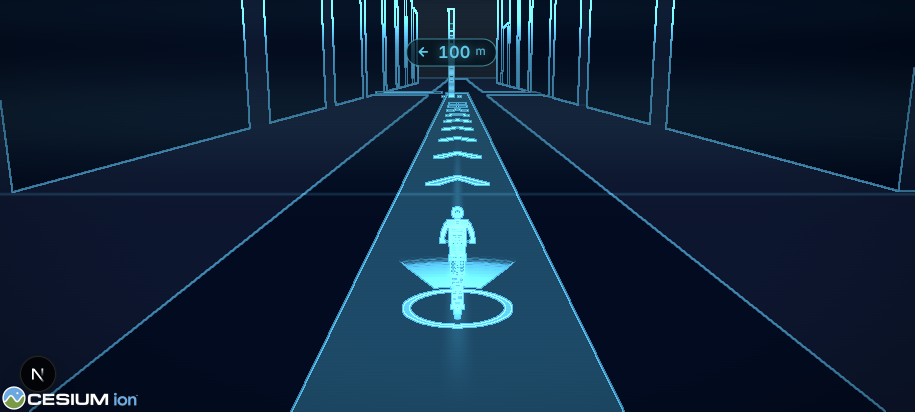
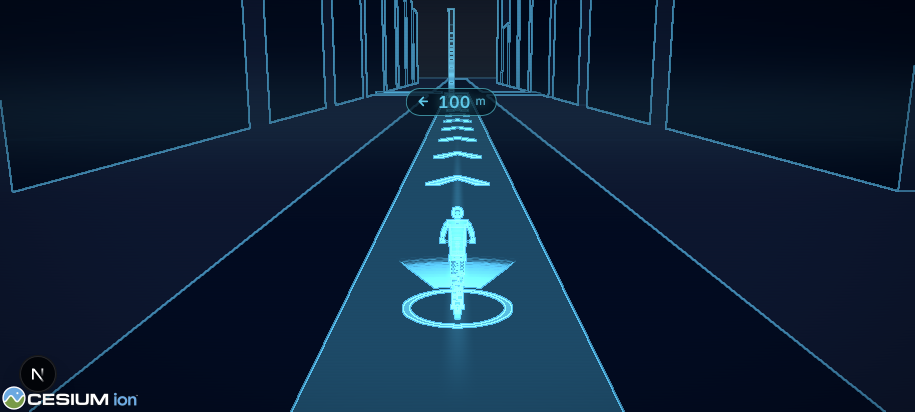
fix(map): count the beacon from the ride session distance and keep its label below the top HUD
The beacon and the HUD now read the same distance along the route and
share the passed tolerance. The label no longer rises above 28 percent
of the scene. Turn guidance tests assert the label never rises and the
exact end of route result. Docs and changelog updated.

diff --git a/apps/web/src/map/scene-controller.test.ts b/apps/web/src/map/scene-controller.test.ts
@@ -13,7 +13,13 @@ import type {
   SceneLighting,
 } from "@waylit/map-provider";
 import { DEFAULT_TUNING, selectProvider } from "@waylit/map-provider";
-import { DEMO_ROUTE } from "@waylit/core";
+import {
+  DEMO_ROUTE,
+  computeProgress,
+  createProgressModel,
+  formatDistance,
+  nextTurn,
+} from "@waylit/core";
 import { MapSceneController, NOTES, startFixOf, type SceneState } from "./scene-controller";
 
 class FakeProvider implements MapProvider {
@@ -323,6 +329,34 @@ describe("MapSceneController guidance", () => {
     expect(frame.beacon?.direction).toBe("left");
     expect(frame.beacon?.label).toMatch(/^\d+ m$/);
     expect(frame.beacon!.distanceMetres).toBeLessThan(80);
+  });
+
+  it("counts the beacon from the ride session's distance, the same number the HUD uses", async () => {
+    const { provider, controller } = await started();
+    const model = createProgressModel(DEMO_ROUTE);
+    const first = nextTurn(model, 0)!;
+    const along = first.atMetres - 30;
+    // The camera is still at the start (a smoothed pose can trail the session by a few metres).
+    controller.resetCamera({ position: DEMO_ROUTE.path[0]!, headingDegrees: 90 });
+    controller.setProgress(along);
+    provider.frame(16);
+    const beacon = provider.guidance.at(-1)!.beacon!;
+    const hud = computeProgress(model, { distanceAlongMetres: along, nowMs: 0 });
+    const shown = formatDistance(hud.distanceToNextMetres!);
+    expect(hud.nextInstruction).toBe(first.instruction);
+    expect(beacon.label).toBe(`${shown.value} ${shown.unit}`);
+    expect(beacon.label).toBe("30 m");
+  });
+
+  it("forgets the session distance on a reset, then counts from the rider's position", async () => {
+    const { provider, controller } = await started();
+    const model = createProgressModel(DEMO_ROUTE);
+    const first = nextTurn(model, 0)!;
+    controller.setProgress(first.atMetres - 30);
+    controller.resetCamera({ position: DEMO_ROUTE.path[0]!, headingDegrees: 90 });
+    provider.frame(16);
+    // The reset forgot the session distance, so the rider at the start is far from any turn.
+    expect(provider.guidance.at(-1)!.beacon).toBeUndefined();
   });
 
   it("hands the same route to the fallback after Cesium fails and is replaced", async () => {

diff --git a/apps/web/src/map/scene-controller.ts b/apps/web/src/map/scene-controller.ts
@@ -76,6 +76,7 @@ export class MapSceneController {
   private mounting: MapProvider | undefined;
   private activity: ProviderActivity = "idle";
   private lighting: SceneLighting | undefined;
+  private sessionAlong: number | undefined;
   private state: SceneState;
 
   constructor(options: SceneControllerOptions) {
@@ -119,10 +120,20 @@ export class MapSceneController {
     this.camera.setFix(fix, this.options.now());
   }
 
+  /**
+   * The ride session's distance along the route, in metres: the same number the HUD counts the
+   * next turn from. The turn beacon uses it so its countdown and the HUD's never disagree.
+   * Pass undefined when there is no ride, and the beacon falls back to the rider's position.
+   */
+  setProgress(alongMetres: number | undefined): void {
+    this.sessionAlong = alongMetres;
+  }
+
   /** Put the camera back at the start, with no gliding. For a new trip. */
   resetCamera(fix: RiderFix): void {
     this.camera.snapTo(fix, this.options.now());
     this.guide.reset();
+    this.sessionAlong = undefined;
   }
 
   setLighting(lighting: SceneLighting): void {
@@ -186,7 +197,9 @@ export class MapSceneController {
       provider.setCamera(pose);
       // The rider and the guidance follow the same smoothed pose as the camera, so the rider
       // stays put in the lower middle of the screen and the chevrons ahead stay on the road.
-      provider.setGuidance(this.guide.frame(pose.rider, pose.headingDegrees, nowMs));
+      provider.setGuidance(
+        this.guide.frame(pose.rider, pose.headingDegrees, nowMs, this.sessionAlong),
+      );
     });
     this.removeStatus = provider.onStatus((status) => {
       // A failure while the provider is still starting is reported by mount() itself.

diff --git a/apps/web/src/map/beacon-label.test.ts b/apps/web/src/map/beacon-label.test.ts
@@ -1,5 +1,5 @@
 import { describe, expect, it } from "vitest";
-import { clampLabel } from "./beacon-label";
+import { LABEL_BOUNDS, clampLabel } from "./beacon-label";
 
 describe("clampLabel", () => {
   it("leaves a point in the readable middle alone", () => {
@@ -9,10 +9,22 @@ describe("clampLabel", () => {
   it("keeps the label off the edges and out of the dock and the top strip", () => {
     const top = clampLabel({ x: -50, y: -20 }, 800, 400)!;
     expect(top.x).toBeCloseTo(80, 6);
-    expect(top.y).toBeCloseTo(64, 6);
+    expect(top.y).toBeCloseTo(112, 6);
     const bottom = clampLabel({ x: 5000, y: 900 }, 800, 400)!;
     expect(bottom.x).toBeCloseTo(720, 6);
     expect(bottom.y).toBeCloseTo(248, 6);
+  });
+
+  it("never lets the label rise above 28 percent of the scene, so it stays below the top HUD", () => {
+    expect(LABEL_BOUNDS.minY).toBe(0.28);
+    for (const height of [360, 412, 720, 1080]) {
+      const lifted = clampLabel({ x: 300, y: height * 0.2 }, 800, height)!;
+      expect(lifted.y).toBeCloseTo(height * 0.28, 6);
+      expect(clampLabel({ x: 300, y: height * 0.28 }, 800, height)!.y).toBeCloseTo(
+        height * 0.28,
+        6,
+      );
+    }
   });
 
   it("drops a label with no usable position or size", () => {

diff --git a/apps/web/src/map/MapScene.tsx b/apps/web/src/map/MapScene.tsx
@@ -21,6 +21,11 @@ interface MapSceneProps {
   /** The simulated rider, once the trip has started. */
   readonly position: LatLng | undefined;
   readonly heading: number | undefined;
+  /**
+   * The ride session's distance along the route in metres, the number the HUD counts the next
+   * turn from. The turn beacon uses it so the beacon and the HUD show the same distance.
+   */
+  readonly alongMetres?: number | undefined;
   readonly daylight: DaylightState;
   /** Show the frame rate overlay and the provider details. Development and `?dev=1`. */
   readonly devOverlay: boolean;
@@ -52,6 +57,7 @@ export function MapScene({
   phase,
   position,
   heading,
+  alongMetres,
   daylight,
   devOverlay,
   statsSlot = null,
@@ -114,6 +120,11 @@ export function MapScene({
     if (position === undefined) return;
     controllerRef.current?.setRider({ position, headingDegrees: heading });
   }, [position, heading]);
+
+  // The session's distance along the route, for the turn beacon's countdown.
+  useEffect(() => {
+    controllerRef.current?.setProgress(alongMetres);
+  }, [alongMetres]);
 
   useEffect(() => {
     controllerRef.current?.setActivity(ACTIVITY[phase]);

diff --git a/apps/web/src/map/beacon-label.ts b/apps/web/src/map/beacon-label.ts
@@ -21,6 +21,12 @@ export interface ScreenPoint {
   readonly y: number;
 }
 
+/**
+ * Where the label may sit, as a share of the scene's width and height. The top limit keeps it
+ * from sliding under the top HUD (the turn arrow and distance, the clock and the minimap).
+ */
+export const LABEL_BOUNDS = { minX: 0.1, maxX: 0.9, minY: 0.28, maxY: 0.62 } as const;
+
 /** Keeps the label where it can be read: off the very top and bottom, and inside the sides. */
 export function clampLabel(
   point: ScreenPoint,
@@ -31,8 +37,8 @@ export function clampLabel(
     return undefined;
   }
   return {
-    x: Math.min(width * 0.9, Math.max(width * 0.1, point.x)),
-    y: Math.min(height * 0.62, Math.max(height * 0.16, point.y)),
+    x: Math.min(width * LABEL_BOUNDS.maxX, Math.max(width * LABEL_BOUNDS.minX, point.x)),
+    y: Math.min(height * LABEL_BOUNDS.maxY, Math.max(height * LABEL_BOUNDS.minY, point.y)),
   };
 }
 

diff --git a/apps/web/src/app/ride/page.tsx b/apps/web/src/app/ride/page.tsx
@@ -166,6 +166,7 @@ export default function RidePage() {
           phase={snapshot.phase}
           position={riding ? snapshot.position : undefined}
           heading={riding ? snapshot.heading : undefined}
+          alongMetres={riding ? snapshot.progress.distanceAlongMetres : undefined}
           daylight={daylight}
           devOverlay={devControls}
           statsSlot={statsSlot}

diff --git a/CHANGELOG.md b/CHANGELOG.md
@@ -11,11 +11,7 @@ All notable changes to this project are recorded here. The format follows [Keep 
 - Google mode: the corridor is a `ClassificationPrimitive` (GPU stencil, `CESIUM_3D_TILE` only) at the documented ground height constant, and the chevrons, beacon, rider and heading marker are flat translucent primitives with original shaders. No height, depth, pick or terrain call touches the tiles, and a test guards the Google mode files for those APIs. The hologram screen effect (scan band, and a screen space ground grid at `high`) extends the existing fx post process and stays off by default for Google tiles.
 - MapLibre fallback: the full look with no Google restrictions. Dark glass buildings with floor lines, roof edges and glowing outlines (extruded style layers in non-overlapping height bands), ribbon and glowing rails style layers, a world fixed ground grid, and one custom WebGL layer for the rider, chevrons, beacon and heading marker with the same original GLSL.
 - Dev page `/dev/holo-preview?dev=1&engine=cesium|maplibre&time=...&fx=...&along=...` (procedural scene, no Google tiles) and original screenshots `docs/images/holo-preview-*.png`.
-- Tests for turn guidance, the route guide, meshes, matrices, the ground grid, the shader sources, the building style, the label clamp, the fx scan band and the Terms guard (709 tests in total, up from 606 at the start of the task).
-
-### Changed
-
-- The fx post process gained a scan band (both variants) and a ground grid (`high`), driven by new uniforms `u_holo` and `u_motion` and new `FxParameters` fields `scanHalfWidth`, `scanStrength` and `gridStrength`. The scene controller now passes the route to the provider and calls `setGuidance` each frame.
+- Tests for turn guidance, the route guide, meshes, matrices, the ground grid, the shader sources, the building style, the label clamp, the fx scan band and the Terms guard (742 tests in total, up from 610).
 
 - Day and night follow the device clock while the position is simulated: the demo route is in Berlin, so the real Berlin sun could be bright day under a 22:04 HUD clock. The scene now uses the sun at the route when its local solar time equals the device's time of day (`sunMoment` in `@waylit/core`, tested for night, noon, sunset, time zone independence, the date line and polar cases). A switch on the start screen (and `?sun=clock` or `?sun=real`) picks "Light follows my clock" (default) or "Real sun at the route". The dev time override still wins and real GPS needs one constant changed. The HUD clock still shows the device time.
 - Top scrim and readable HUD text: a flat linear gradient behind the top of the screen, stronger by day (driven by the daylight factor), a small dark text shadow on text over the scene, brighter secondary text colours and new `scrim` and `shadow` design tokens. A test checks WCAG contrast (4.5:1 small text, 3:1 large) against bright sky, sunlit ground and night backgrounds.
@@ -54,6 +50,8 @@ All notable changes to this project are recorded here. The format follows [Keep 
 
 ### Changed
 
+- Hologram review fixes (task 9): the Terms guard test now covers `tile-shader.ts` and the tile event, any `.pick(`, `czm_globeDepthTexture`, `czm_readDepth` and `tileVisible`, and every `ClassificationType` must be `CESIUM_3D_TILE`. A new `LoadGovernor` steps the hologram down on a slow phone whatever the fx level is (fewer chevrons, then no rails volume), after the screen effect when that is on, and `FxGovernor` and `HoloGovernor` now share a `StepDownGovernor` base. `cesium-holo.ts` reuses its scratch objects each frame. The turn beacon counts from the ride session's distance along the route, the same input as the HUD, and the HUD and beacon agree on the departure (HUD shows it at the very start, the beacon never does). The beacon label no longer rises above 28 percent of the scene. Turn guidance tests assert the label sequence never rises and the exact end of route result.
+- The fx post process gained a scan band (both variants) and a ground grid (`high`), driven by new uniforms `u_holo` and `u_motion` and new `FxParameters` fields `scanHalfWidth`, `scanStrength` and `gridStrength`. The scene controller now passes the route to the provider and calls `setGuidance` each frame.
 - The first run safety notice sits above the credits strip and the 3D scene starts only after it is acknowledged, so the Google logo and credits are never covered.
 - The ground height of the demo route is 85 m above the ellipsoid (about 45 m above sea level at Tempelhof plus a geoid undulation of about 40 m at Berlin), down from 95 m and then 90 m after the task 8 reviews. A documented estimate and still a constant, never read or derived from tiles.
 - In Google mode the tile night tint and the warm street light lift are part of the visual effect setting: with the effect off (the default, or `?fx=off`) no custom tile shader is created, so the Google tiles are drawn as supplied and only the sky follows the daylight state. `?fx=low` or `?fx=high` bring the night tint back. The MapLibre fallback is unchanged.

diff --git a/docs/ARCHITECTURE.md b/docs/ARCHITECTURE.md
@@ -192,7 +192,11 @@ apps/web/src/map/beacon-label.ts            DOM label for the turn beacon, clamp
 - **Hologram screen effect on Google tiles.** The scan band and the screen space ground grid are part of the existing fx post process, so they sit behind the same switch: `GOOGLE_FX_ON_BY_DEFAULT = false`, `?fx=off|low|high`, and the `FxGovernor` stepping down below 30 fps. They are per fragment colour changes from screen coordinates and read no depth. The grid is a perspective projection of the screen position onto a plane, not a read of the tiles.
 - **Terms 3.2.3 grey area.** Terms 3.2.3(c) forbids creating content based on Google Maps Content. Drawing a corridor on the tiles with a stencil classification, and tinting pixels on screen, create no copy and record nothing, but the terms do not say that clearly. The corridor is the approved Amendment 3 approach. The screen effect is the same grey area as the colour grade above, so it ships off for Google tiles until the maintainer accepts the risk.
 - **MapLibre fallback (`maplibre-holo.ts`, `holo-style.ts`).** Not Google content, so the full look runs by default. Buildings are extruded in non-overlapping height bands (glass, floor line, glass, floor line, glass, roof edge) so extrusions never z-fight, plus an outline glow at `high`. Ribbon, rails and the grid are style layers. The rider, chevrons, beacon and heading marker draw in one custom WebGL layer (`renderingMode: "3d"`) using `defaultProjectionData.mainMatrix` (a 64 bit matrix from web mercator 0 to 1 to clip space, multiplied by each item's matrix in 64 bit before it goes to the GPU). Item heights come from the open terrain when it is on.
-- **Beacon label.** A DOM element in `.wl-scene-overlay` inside the scene element (never in the credits strip), placed from the beacon's projected screen point and clamped to 10 to 90 percent across and 16 to 62 percent down the scene.
+- **What is on by default in Google mode.** The corridor classification and the hologram objects (chevrons, beacon, rider, heading marker) are on by default, under Amendment 3 (they read nothing from the tiles). The scan band and the ground grid are part of the screen effect and are off by default (`GOOGLE_FX_ON_BY_DEFAULT = false`).
+- **Adaptive detail (`holo-governor.ts`, `load-governor.ts`).** The screen effect has its own step down, and it is off by default on Google tiles, so the hologram objects have a second one that works whatever the fx level is. `LoadGovernor` runs two ladders on the same frame statistics: the effect steps first (high, low, off, unless the address pinned it), then the hologram steps full, light (every second chevron) and minimal (every fourth chevron and the rails classification volume removed; the ribbon, the rider, the heading marker and the beacon stay). A step is made when the median frame rate since the last change is below 30 fps (the same 2 ms tolerance, 90 frames and 4 seconds as `FxGovernor`), at most one change per check, and a change restarts both judgements. It only steps down. Chevrons are thinned by their fixed slot number along the route (`HoloItem.slot`), so the same ones stay as the rider moves and nothing flickers. `cesium-holo.ts` reuses its scratch objects each frame (no per frame allocation of vectors, windows coordinates or counters).
+- **One distance for the beacon and the HUD.** The ride session's distance along the route (`progress.distanceAlongMetres`) goes through `MapScene` and `MapSceneController.setProgress` into `RouteGuide.frame(..., sessionAlongMetres)`. The beacon's countdown, direction and phase use it, so they read the same input as the HUD and show the same rounded distance (a test sweeps the whole demo route). The chevrons still use the rider's drawn position, so they sit on the road ahead of what is on screen. Both drop a turn at the same moment (`PASSED_TOLERANCE_METRES` is shared). Departure: the HUD shows the departure instruction at the very start, the beacon never does (it skips depart and continue), so at the start the beacon is simply absent.
+- **Terms guard.** `holo-terms.test.ts` covers every Google mode file, including `tile-shader.ts` and `cesium-google.ts`: no height sampling, picking (any `.pick(`), depth reads (`czm_globeDepthTexture`, `czm_readDepth`, `depthTexture`), tile events beyond the existing loaded tile counter (which takes no argument), or any `ClassificationType` other than `CESIUM_3D_TILE`.
+- **Beacon label.** A DOM element in `.wl-scene-overlay` inside the scene element (never in the credits strip), placed from the beacon's projected screen point and clamped to 10 to 90 percent across and 28 to 62 percent down the scene (`LABEL_BOUNDS`; the top limit keeps it below the top HUD).
 - **Not verified.** The previews run on procedural scenes under SwiftShader. The look on real Google tiles, `ClassificationPrimitive` on glTF reality mesh tiles and the frame rate on a Samsung A35 are not yet verified.
 
 ### Static assets and caching
